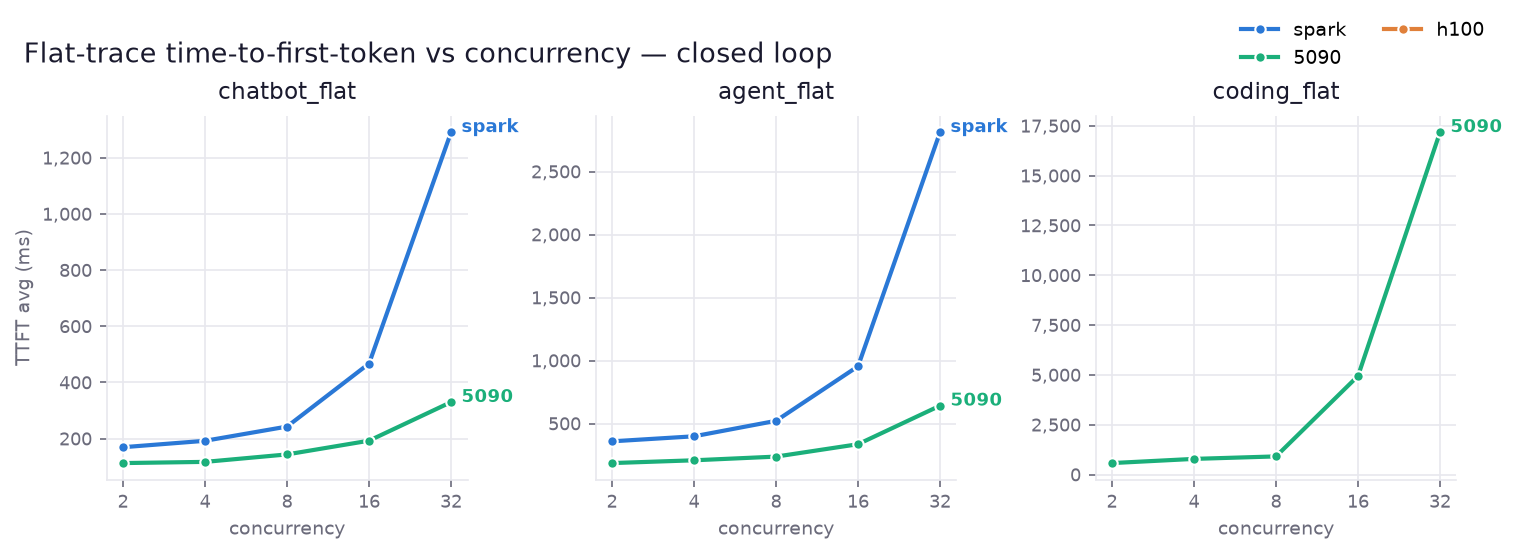
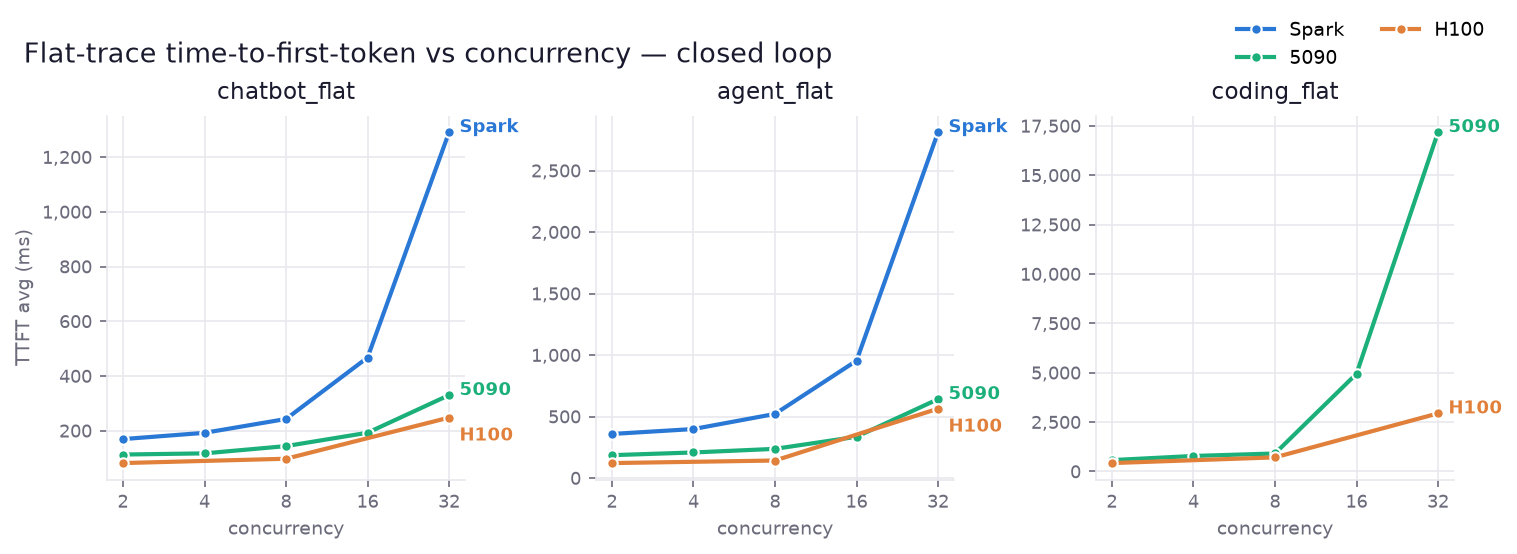
plot_nvfp4: display node labels as Spark / H100
Add a DISP map so on-plot labels and legends read "Spark" and "H100"
while the lowercase keys (which are results/nvfp4/<node> directory
names) are untouched. Regenerate all nvfp4 PNGs.

diff --git a/scripts/plot_nvfp4.py b/scripts/plot_nvfp4.py
@@ -23,7 +23,12 @@ import matplotlib.pyplot as plt
 ROOT = os.path.join(os.path.dirname(__file__), "..", "results", "nvfp4")
 WLS = ["chatbot", "rag", "toolagent", "agent", "coding"]
 NODES = [("spark", "#2a78d6"), ("5090", "#1baf7a"), ("h100", "#e0803a")]  # dataviz palette slots 1-3 (blue/green/orange, CVD-safe)
+DISP = {"spark": "Spark", "h100": "H100"}  # on-plot labels; the raw keys stay lowercase (they are directory names)
 INK, MUTED, GRID = "#1a1a2e", "#6b6b7b", "#e8e8ee"
+
+
+def disp(n):
+    return DISP.get(n, n)
 CLEVELS = [2, 4, 8, 16, 32]
 RLEVELS = [0.8, 1.0, 1.2]
 
@@ -82,7 +87,7 @@ def grid_figure(fname, xlevels, xlabel, ylabel, suptitle, get_y, logy=False, log
                 lo, hi = sorted((prev_end, yv[-1]))
                 if lo > 0 and hi / max(lo, 1e-12) < 1.35:
                     dy = -11
-            ax.annotate(node, (xs[-1], yv[-1]), textcoords="offset points",
+            ax.annotate(disp(node), (xs[-1], yv[-1]), textcoords="offset points",
                         xytext=(5, dy), fontsize=8.5, color=color, fontweight="bold")
             prev_end = yv[-1]
         if logx2:
@@ -99,7 +104,7 @@ def grid_figure(fname, xlevels, xlabel, ylabel, suptitle, get_y, logy=False, log
         ax.set_xlabel(xlabel, fontsize=9, color=MUTED)
     axes[0].set_ylabel(ylabel, fontsize=9, color=MUTED)
     handles = [plt.Line2D([], [], color=c, linewidth=2, marker="o", markersize=5,
-                          markeredgecolor="white", label=n) for n, c in NODES]
+                          markeredgecolor="white", label=disp(n)) for n, c in NODES]
     fig.legend(handles=handles, loc="upper right", frameon=False, fontsize=9,
                bbox_to_anchor=(0.995, 1.06), ncol=2)
     fig.suptitle(suptitle, fontsize=13, color=INK, x=0.01, ha="left")
@@ -134,7 +139,7 @@ def flat_vs_orig(fname):
                         lo, hi = sorted((prev_end, yv[-1]))
                         if lo > 0 and hi / max(lo, 1e-12) < 1.35:
                             dy = -11
-                    ax.annotate(node, (xs[-1], yv[-1]), textcoords="offset points",
+                    ax.annotate(disp(node), (xs[-1], yv[-1]), textcoords="offset points",
                                 xytext=(5, dy), fontsize=8.5, color=color,
                                 fontweight="bold")
                     prev_end = yv[-1]
@@ -145,7 +150,7 @@ def flat_vs_orig(fname):
     axes[0].set_ylabel("Req/s", fontsize=9, color=MUTED)
     handles = [plt.Line2D([], [], color=c, linewidth=2, linestyle=ls, alpha=a,
                           marker="o" if ls == "-" else None, markersize=5,
-                          markeredgecolor="white", label=f"{n} {v}")
+                          markeredgecolor="white", label=f"{disp(n)} {v}")
                for n, c in NODES for v, ls, a in (("flat", "-", 1.0), ("multi-turn", "--", 0.5))]
     fig.legend(handles=handles, loc="upper right", frameon=False, fontsize=8,
                bbox_to_anchor=(0.995, 1.10), ncol=4)
@@ -202,7 +207,7 @@ def rate_reqs_figure(fname):
             for x, y in zip(xs, yv):
                 ax.annotate(f"{y:.2f}", (x, y), textcoords="offset points",
                             xytext=(0, dy), fontsize=8, color=color, ha="center")
-            ax.annotate(node, (xs[-1], yv[-1]), textcoords="offset points",
+            ax.annotate(disp(node), (xs[-1], yv[-1]), textcoords="offset points",
                         xytext=(14, -3), fontsize=8.5, color=color, fontweight="bold")
         ax.set_xticks(RLEVELS)
         ax.set_xlim(0.72, 1.34)
@@ -211,7 +216,7 @@ def rate_reqs_figure(fname):
         ax.set_xlabel("req/s offered", fontsize=9, color=MUTED)
     axes[0].set_ylabel("Req/s delivered", fontsize=9, color=MUTED)
     handles = [plt.Line2D([], [], color=c, linewidth=2, marker="o", markersize=5,
-                          markeredgecolor="white", label=n) for n, c in NODES]
+                          markeredgecolor="white", label=disp(n)) for n, c in NODES]
     fig.legend(handles=handles, loc="upper right", frameon=False, fontsize=9,
                bbox_to_anchor=(0.995, 1.06), ncol=2)
     fig.suptitle("Open-loop delivered Req/s at 0.8 / 1.0 / 1.2 req/s offered (poisson)",
